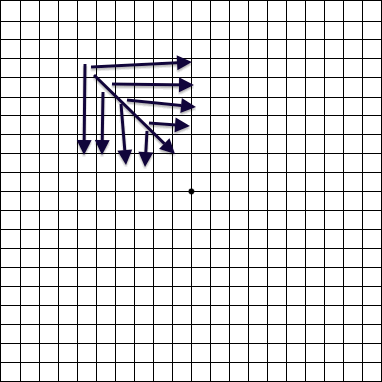
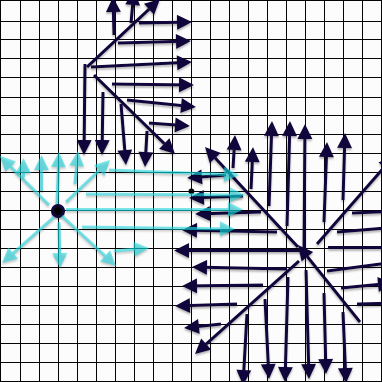
Bug fixing search algorithm

Changed region(s): [[0.0, 0.3168, 1.0, 1.0], [0.2304, 0.0, 0.5183, 0.1728], [0.2304, 0.6335, 0.4031, 0.7199]]

diff --git a/GameWorld/GameMap.hpp b/GameWorld/GameMap.hpp
@@ -241,91 +241,132 @@ void GameMap<T>::findAllNearby_helper(vector<T*> * store, Navigator nav, const N
 			
 				
 		case ne : {
-			if (((nav.x_travelled() < x_lim) && (nav.current.x < getXBound())) &&
-				((nav.y_travelled() < y_lim) && (nav.current.y < getYBound())))
+			bool continue_e = ((nav.x_travelled() < x_lim) && (nav.current.x < getXBound())) ;
+			bool continue_n = ((nav.y_travelled() < y_lim) && (nav.current.y < getYBound())) ;
+			
+			if (continue_e || continue_n)
+			//if (((nav.x_travelled() < x_lim) && (nav.current.x < getXBound())) && //old code
+			//((nav.y_travelled() < y_lim) && (nav.current.y < getYBound())))
 			{
-				Location<N> n_loc((nav.current)) ;
-				n_loc.y++ ;
-				Navigator n_nav = Navigator(Direction::north, nav.start, n_loc) ;
-				findAllNearby_helper(store, n_nav, x_lim, y_lim) ;
+				if (continue_n) {
+					Location<N> n_loc((nav.current)) ;
+					n_loc.y++ ;
+					Navigator n_nav = Navigator(Direction::north, nav.start, n_loc) ;
+					findAllNearby_helper(store, n_nav, x_lim, y_lim) ;
+				}
 				
-				Location<N> e_loc((nav.current)) ;
-				e_loc.x++ ;
-				Navigator e_nav = Navigator(Direction::east, nav.start, e_loc) ;
-				findAllNearby_helper(store, e_nav, x_lim, y_lim) ;
+				if (continue_e) {
+					Location<N> e_loc((nav.current)) ;
+					e_loc.x++ ;
+					Navigator e_nav = Navigator(Direction::east, nav.start, e_loc) ;
+					findAllNearby_helper(store, e_nav, x_lim, y_lim) ;
+				}
 				
-				nav.current.x++ ;
-				nav.current.y++ ;
-				//nav.dir = ne ;
-				findAllNearby_helper(store, nav, x_lim, y_lim) ;
+				if (continue_e && continue_n) {
+					nav.current.x++ ;
+					nav.current.y++ ;
+					//nav.dir = ne ;
+					findAllNearby_helper(store, nav, x_lim, y_lim) ;
+				}
 			}
 		}
 			break ;
 			
 				
 		case se : {
-			if (((nav.x_travelled() < x_lim) && (nav.current.x < getXBound())) &&
-				((nav.y_travelled() < y_lim) && (nav.current.y > 0)))
+			bool continue_e = ((nav.x_travelled() < x_lim) && (nav.current.x < getXBound())) ;
+			bool continue_s = ((nav.y_travelled() < y_lim) && (nav.current.y > 0)) ;
+			
+			if (continue_e || continue_s)
+				//(((nav.x_travelled() < x_lim) && (nav.current.x < getXBound())) &&
+			   //((nav.y_travelled() < y_lim) && (nav.current.y > 0)))
 			{
-				Location<N> s_loc((nav.current)) ;
-				s_loc.y-- ;
-				Navigator s_nav = Navigator(Direction::south, nav.start, s_loc) ;
-				findAllNearby_helper(store, s_nav, x_lim, y_lim) ;
+				if (continue_s) {
+					Location<N> s_loc((nav.current)) ;
+					s_loc.y-- ;
+					Navigator s_nav = Navigator(Direction::south, nav.start, s_loc) ;
+					findAllNearby_helper(store, s_nav, x_lim, y_lim) ;
+				}
 				
-				Location<N> e_loc((nav.current)) ;
-				e_loc.x++ ;
-				Navigator e_nav = Navigator(Direction::east, nav.start, e_loc) ;
-				findAllNearby_helper(store, e_nav, x_lim, y_lim) ;
-				
-				nav.current.x++ ;
-				nav.current.y-- ;
-				//nav.dir = ne ;
-				findAllNearby_helper(store, nav, x_lim, y_lim) ;
+				if (continue_e) {
+					Location<N> e_loc((nav.current)) ;
+					e_loc.x++ ;
+					Navigator e_nav = Navigator(Direction::east, nav.start, e_loc) ;
+					findAllNearby_helper(store, e_nav, x_lim, y_lim) ;
+				}
+			
+				if (continue_e && continue_s) {
+					nav.current.x++ ;
+					nav.current.y-- ;
+					//nav.dir = ne ;
+					findAllNearby_helper(store, nav, x_lim, y_lim) ;
+				}
 			}
 		}
 			break ;
 			
 				
 		case sw : {
-			if (((nav.x_travelled() < x_lim) && (nav.current.x > 0)) &&
-				((nav.y_travelled() < y_lim) && (nav.current.y > 0)))
+			bool continue_w = ((nav.x_travelled() < x_lim) && (nav.current.x > 0)) ;
+			bool continue_s = ((nav.y_travelled() < y_lim) && (nav.current.y > 0)) ;
+			
+			if (continue_w || continue_s)
+				//(((nav.x_travelled() < x_lim) && (nav.current.x > 0)) &&
+				//((nav.y_travelled() < y_lim) && (nav.current.y > 0)))
 			{
-				Location<N> s_loc((nav.current)) ;
-				s_loc.y-- ;
-				Navigator s_nav = Navigator(Direction::south, nav.start, s_loc) ;
-				findAllNearby_helper(store, s_nav, x_lim, y_lim) ;
+				if (continue_s) {
+					Location<N> s_loc((nav.current)) ;
+					s_loc.y-- ;
+					Navigator s_nav = Navigator(Direction::south, nav.start, s_loc) ;
+					findAllNearby_helper(store, s_nav, x_lim, y_lim) ;
+				}
 				
-				Location<N> w_loc((nav.current)) ;
-				w_loc.x-- ;
-				Navigator w_nav = Navigator(Direction::west, nav.start, w_loc) ;
-				findAllNearby_helper(store, w_nav, x_lim, y_lim) ;
+				if (continue_w) {
+					Location<N> w_loc((nav.current)) ;
+					w_loc.x-- ;
+					Navigator w_nav = Navigator(Direction::west, nav.start, w_loc) ;
+					findAllNearby_helper(store, w_nav, x_lim, y_lim) ;
+				}
 				
-				nav.current.x-- ;
-				nav.current.y-- ;
-				//nav.dir = sw ;
-				findAllNearby_helper(store, nav, x_lim, y_lim) ;
+				if (continue_s && continue_w) {
+					nav.current.x-- ;
+					nav.current.y-- ;
+					//nav.dir = sw ;
+					findAllNearby_helper(store, nav, x_lim, y_lim) ;
+				}
 			}
 		}
 			break ;
 			
 				
 		case nw : {
-			if (((nav.x_travelled() < x_lim) && (nav.current.x > 0)) &&
-				((nav.y_travelled() < y_lim) && (nav.current.y < getYBound())))
+			bool continue_w = ((nav.x_travelled() < x_lim) && (nav.current.x > 0)) ;
+			bool continue_n = ((nav.y_travelled() < y_lim) && (nav.current.y < getYBound())) ;
+			
+	
+			if (continue_w || continue_w)
+				//(((nav.x_travelled() < x_lim) && (nav.current.x > 0)) &&
+			   //((nav.y_travelled() < y_lim) && (nav.current.y < getYBound())))
 			{
-				Location<N> n_loc((nav.current)) ;
-				n_loc.y++ ;
-				Navigator n_nav = Navigator(Direction::north, nav.start, n_loc) ;
-				findAllNearby_helper(store, n_nav, x_lim, y_lim) ;
+				if (continue_n) {
+					Location<N> n_loc((nav.current)) ;
+					n_loc.y++ ;
+					Navigator n_nav = Navigator(Direction::north, nav.start, n_loc) ;
+					findAllNearby_helper(store, n_nav, x_lim, y_lim) ;
+				}
 				
-				Location<N> w_loc((nav.current)) ;
-				w_loc.x-- ;
-				Navigator w_nav = Navigator(Direction::west, nav.start, w_loc) ;
-				findAllNearby_helper(store, w_nav, x_lim, y_lim) ;
+				if (continue_w) {
+					Location<N> w_loc((nav.current)) ;
+					w_loc.x-- ;
+					Navigator w_nav = Navigator(Direction::west, nav.start, w_loc) ;
+					findAllNearby_helper(store, w_nav, x_lim, y_lim) ;
+				}
 				
-				nav.current.x-- ;
-				nav.current.y++ ;
-				findAllNearby_helper(store, nav, x_lim, y_lim) ;
+				if (continue_w && continue_n) {
+					nav.current.x-- ;
+					nav.current.y++ ;
+					findAllNearby_helper(store, nav, x_lim, y_lim) ;
+				}
 			}
 		}
 			break ;
